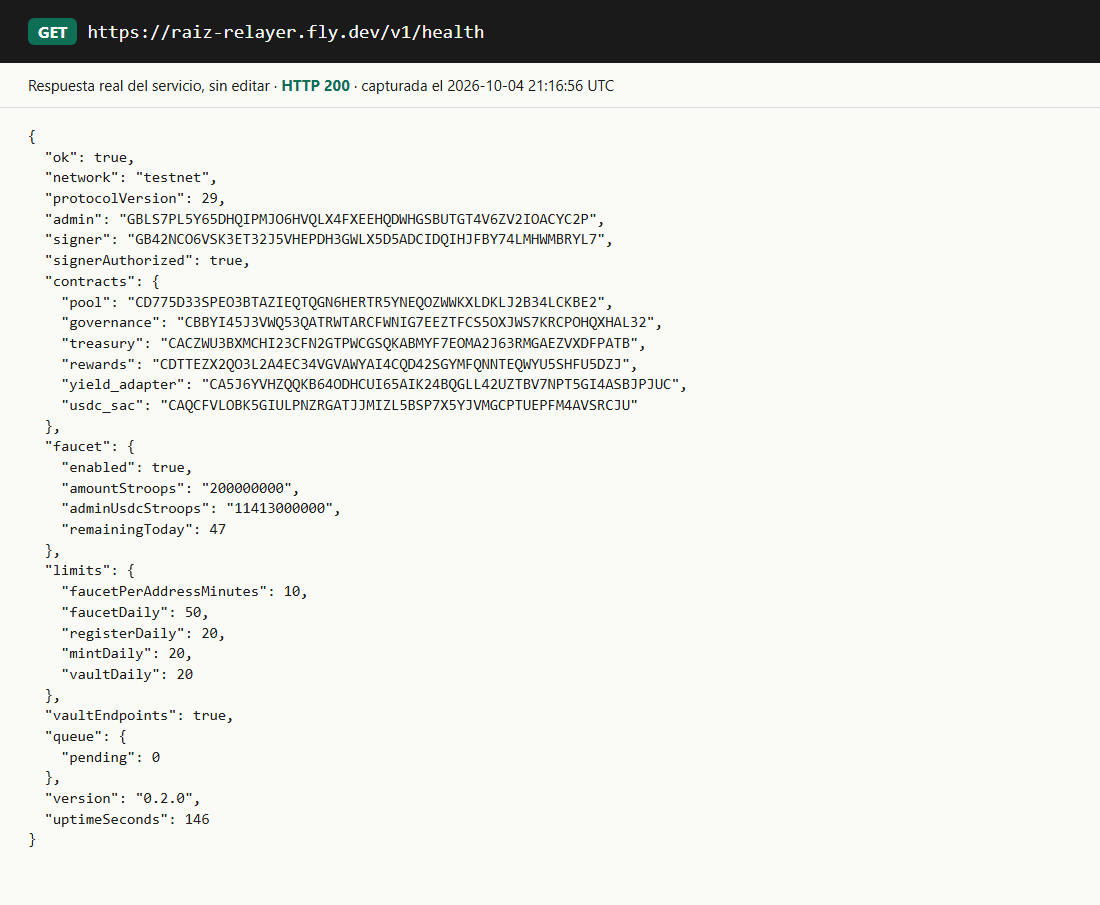
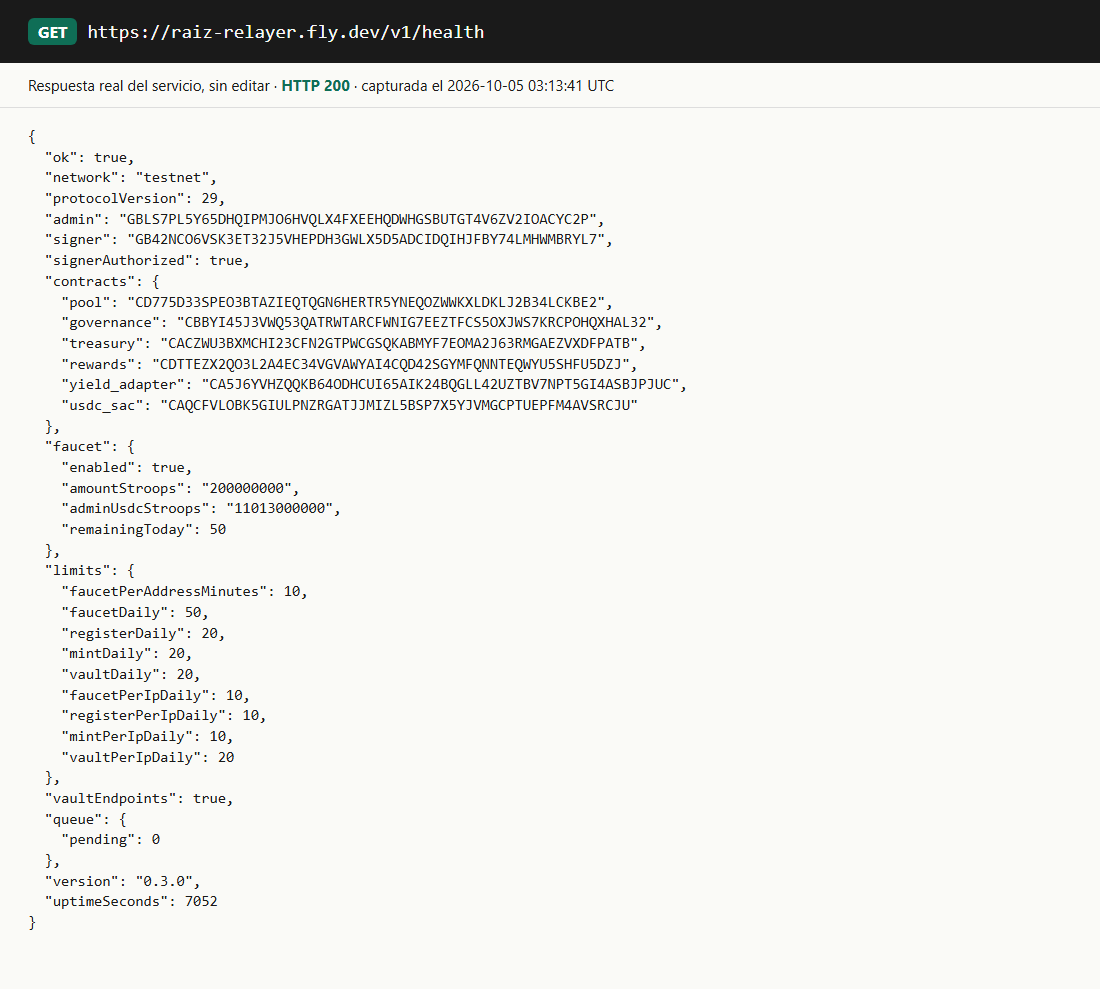
docs(sow): D1 — APK 0.4.0 sin ninguna credencial (relayer 0.3.0 público con cupos)
- `d1/verificacion_apk.md`: datos del APK 0.4.0 (SHA-256 296f30d8…802569d0); además de 0 claves
  privadas, no aparecen el valor de la API key del relayer, la cabecera `x-raiz-app-key` ni el campo
  `RELAYER_APP_KEY`.
- `d1/README.md`: la API key de aplicación (0.2.0–0.3.0) se eliminó; el relayer 0.3.0 es público y
  lo protegen cupos por IP, por dirección y globales. Captura del health con la versión 0.3.0 y tres
  capturas del APK release 0.4.0 completando un depósito real.
- `d1/regresion_dispositivo.md`: los dos casos de la API key vacía o incorrecta quedan como históricos.

Changed region(s): [[0.0309, 0.1547, 0.6182, 0.9282], [0.0, 0.0, 1.0, 0.1238], [0.2473, 0.6497, 0.2782, 0.6807]]

diff --git a/docs/evidencia_sow/d1/README.md b/docs/evidencia_sow/d1/README.md
@@ -6,21 +6,22 @@ descompilación; regresión en dispositivo físico.
 
 **En una frase:** antes, el APK llevaba la clave privada del admin del protocolo para poder
 registrar comercios, emitir el soulbound de residente y repartir USDC de prueba. Desde la versión
-0.2.0 el APK solo tiene direcciones públicas y una API key de aplicación: quien firma como admin es
-el servicio `raiz-relayer`, con una clave que vive únicamente en una variable de entorno del
-servidor. El 4-oct, además, la clave que había viajado en el APK viejo se **revocó on-chain** y el
-relayer pasó a firmar con una clave nueva, que nunca estuvo en un APK.
+0.2.0 el APK no lleva ninguna clave privada: quien firma como admin es el servicio `raiz-relayer`,
+con una clave que vive únicamente en una variable de entorno del servidor. El 4-oct, además, la
+clave que había viajado en el APK viejo se **revocó on-chain** y el relayer pasó a firmar con una
+clave nueva, que nunca estuvo en un APK. Y desde la **0.4.0** (también del 4-oct) el APK tampoco
+lleva la API key con la que se identificaba ante el relayer: solo contiene direcciones públicas.
 
 ## Tabla entregable → evidencia
 
 | Entregable SOW D1 | Evidencia | Dónde | Estado |
 |---|---|---|---|
-| Repositorio público del relayer | TypeScript + Fastify + `@stellar/stellar-sdk`, licencia MIT, README en español (endpoints, modelo de amenazas, runbook), 182 pruebas automáticas (`vitest`), integración real contra testnet y CI | https://github.com/JuanWimmin/raiz-relayer | ✅ Público desde el 27-ago |
-| Servicio corriendo en testnet | `GET /v1/health`: `ok`, `network: testnet`, los 5 contratos de `deployments.json`, cuenta admin y clave que firma | https://raiz-relayer.fly.dev/v1/health · captura [`d1_relayer_health_2026-10-04.png`](capturas/d1_relayer_health_2026-10-04.png) | ✅ Desplegado el 6-sep (Fly, región `iad`); versión 0.2.0 desde el 4-oct |
-| App migrada al relayer | `android/app/src/main/java/com/raiz/app/data/relayer/RelayerClient.kt` + 24 tests de mapeo de errores; ningún ViewModel firma como admin | Este repo, `main` (PR #1, 6-sep) | ✅ |
-| APK release sin secretos | [`raiz-0.3.0.apk`](https://github.com/JuanWimmin/Protocolo_Raiz/releases/download/v0.3.0/raiz-0.3.0.apk): versión final del sprint, con D1 + D2 + D3. SHA-256 `50373942…d771f56c` | [Release v0.3.0](https://github.com/JuanWimmin/Protocolo_Raiz/releases/tag/v0.3.0). La primera versión sin clave admin fue la [v0.2.0](https://github.com/JuanWimmin/Protocolo_Raiz/releases/tag/v0.2.0) (12-sep) | ✅ 4-oct |
+| Repositorio público del relayer | TypeScript + Fastify + `@stellar/stellar-sdk`, licencia MIT, README en español (endpoints, modelo de amenazas, runbook), 200 pruebas automáticas (`vitest`), integración real contra testnet y CI | https://github.com/JuanWimmin/raiz-relayer | ✅ Público desde el 27-ago |
+| Servicio corriendo en testnet | `GET /v1/health`: `ok`, `network: testnet`, los 5 contratos de `deployments.json`, cuenta admin y clave que firma | https://raiz-relayer.fly.dev/v1/health · captura [`d1_relayer_health_2026-10-04.png`](capturas/d1_relayer_health_2026-10-04.png) | ✅ Desplegado el 6-sep (Fly, región `iad`); versión 0.3.0 desde el 4-oct (pública, sin API key, con cupos por IP) |
+| App migrada al relayer | `android/app/src/main/java/com/raiz/app/data/relayer/RelayerClient.kt` + 27 tests de mapeo de errores; ningún ViewModel firma como admin | Este repo, `main` (PR #1, 6-sep) | ✅ |
+| APK release sin secretos | [`raiz-0.4.0.apk`](https://github.com/JuanWimmin/Protocolo_Raiz/releases/download/v0.4.0/raiz-0.4.0.apk): versión final del sprint, con D1 + D2 + D3 y sin ninguna credencial. SHA-256 `296f30d8…802569d0` | [Release v0.4.0](https://github.com/JuanWimmin/Protocolo_Raiz/releases/tag/v0.4.0). La anterior, [v0.3.0](https://github.com/JuanWimmin/Protocolo_Raiz/releases/tag/v0.3.0), aún llevaba la API key del relayer. La primera versión sin clave admin fue la [v0.2.0](https://github.com/JuanWimmin/Protocolo_Raiz/releases/tag/v0.2.0) (12-sep) | ✅ 4-oct |
 | Verificable por descompilación | Documento de 1 página + script reproducible + ejecución automática en GitHub | [`verificacion_apk.md`](verificacion_apk.md) · [`scripts/verify_apk_no_secrets.py`](../../../scripts/verify_apk_no_secrets.py) · [workflow `verify-apk`](https://github.com/JuanWimmin/Protocolo_Raiz/actions/workflows/verify-apk.yml) | ✅ 0 claves privadas |
-| Regresión en dispositivo físico | 4 flujos vía relayer en un Motorola G04 (faucet con passkey y con semilla, alta de comercio, residente + voto, yield), con capturas y hashes | [`regresion_dispositivo.md`](regresion_dispositivo.md) · [`capturas/`](capturas) | ✅ 6-sep (APK 0.2.0). El APK 0.3.0 pasó una prueba de humo el 4-oct: capturas `d1_v030_*` |
+| Regresión en dispositivo físico | 4 flujos vía relayer en un Motorola G04 (faucet con passkey y con semilla, alta de comercio, residente + voto, yield), con capturas y hashes | [`regresion_dispositivo.md`](regresion_dispositivo.md) · [`capturas/`](capturas) | ✅ 6-sep (APK 0.2.0). El APK 0.3.0 pasó una prueba de humo el 4-oct (capturas `d1_v030_*`) y el **APK 0.4.0 completó un depósito real** ese mismo día: capturas [`d1_v040_01`](capturas/d1_v040_01_inicio_release.png), [`02`](capturas/d1_v040_02_deposito_completo_release.png), [`03`](capturas/d1_v040_03_inicio_tras_deposito_release.png) |
 | La clave que viajó en el APK ya no sirve | Rotación on-chain: la clave maestra de la cuenta admin tiene peso 0 | [Sección de abajo](#rotación-de-la-clave-del-admin-2026-10-04) | ✅ 4-oct |
 
 ## Cómo lo verifica un revisor en 10 minutos
@@ -60,7 +61,7 @@ dirección como admin, de modo que no hubo que redesplegar nada ni tocar la app:
 | 3 | El relayer (versión 0.2.0) pasó a firmar con la clave nueva. `/v1/health` lo muestra: `signer: GB42NCO6…`, `signerAuthorized: true` | commit [`9620123`](https://github.com/JuanWimmin/raiz-relayer/commit/96201239576071b27f1221a9e719e9f8e76032cf) · faucet de prueba firmado con la clave nueva: [`b3092c56…7189`](https://stellar.expert/explorer/testnet/tx/b3092c56bd9db1b0417b4b3d0a51b1d311d3b4887b32f5e193b92f8fc8197189) (pago clásico) y [`04d0a525…7ad4`](https://stellar.expert/explorer/testnet/tx/04d0a5253118f9d2abe886a76392d2c1d7ab85d5ec829a9ee8b4c8d7b75f7ad4) (contrato) |
 | 4 | Con una transacción firmada por la clave **nueva**, la clave maestra quedó con peso 0 y los umbrales en 1/1/1 | tx [`1c56d1ca…35d7`](https://stellar.expert/explorer/testnet/tx/1c56d1ca0c10caaedfeeeccdbca49ce4587500fe76727e868b4c06b4a6b235d7) |
 | 5 | Comprobación: una transacción firmada con la clave vieja es rechazada por la red | `tx_bad_auth` (salida abajo) |
-| 6 | El APK 0.1.0 se retiró de su Release y la landing enlaza al 0.3.0 | [Release v0.1.0](https://github.com/JuanWimmin/Protocolo_Raiz/releases/tag/v0.1.0) (sin archivo) · <https://raizapp.xyz> |
+| 6 | El APK 0.1.0 se retiró de su Release y la landing enlaza al APK vigente (0.4.0) | [Release v0.1.0](https://github.com/JuanWimmin/Protocolo_Raiz/releases/tag/v0.1.0) (sin archivo) · <https://raizapp.xyz> |
 | 7 | La suite de integración del relayer (11 pruebas reales contra testnet) pasa con la clave nueva: faucet, residente, comercio y los rechazos esperados | [`it-testnet-2026-10-04.json`](https://github.com/JuanWimmin/raiz-relayer/blob/main/docs/evidencia/it-testnet-2026-10-04.json) · `mint_resident` [`f5842447…bd8d`](https://stellar.expert/explorer/testnet/tx/f584244713df7d6ec28d59f2cf11be143514db58f3b580334fbecd1039d4bd8d) · `register_merchant` [`684ba48f…7fec`](https://stellar.expert/explorer/testnet/tx/684ba48f31aea7e59b0907969a032652ad4e213776cfe8d6d3892346c6837fec) |
 
 El paso 4 lo firma la clave nueva a propósito: si esa clave no pudiera firmar por la cuenta, la
@@ -90,9 +91,15 @@ y la app: ninguno depende de qué clave firma, solo de la cuenta.
 
 - **La dirección pública del admin sí está en el APK** (`assets/deployments.json`). Es pública y
   necesaria como cuenta de origen de las lecturas por simulación; con ella no se firma nada.
-- **La API key de la app viaja en el APK** a propósito: limita peticiones por aplicación, no es
-  autenticación fuerte. El relayer lo documenta como modelo de amenazas de **testnet**; la custodia
-  comunal real es la fase F3 del roadmap.
+- **El relayer es público: no hay API key.** De 0.2.0 a 0.3.0 la app enviaba una API key de
+  aplicación que viajaba en el APK; no firmaba nada, pero cualquiera podía extraerla, así que no
+  protegía de verdad. Desde el 4-oct (app 0.4.0 + relayer 0.3.0) no existe: cualquiera puede llamar
+  al relayer y lo que acota el abuso son cupos del lado del servidor (por IP y minuto, por IP y día,
+  por dirección destino y un tope global diario), además de que cada operación solo se firma si las
+  reglas de los contratos lo permiten. El relayer lo documenta como modelo de amenazas de
+  **testnet**. Lo que viene después — que cada petición vaya autenticada por la wallet del usuario
+  (SEP-10 y SEP-45) — está planificado en detalle como WP7 de
+  [`PLAN_CLAUDE_CODE_SOW.md`](../../PLAN_CLAUDE_CODE_SOW.md); la custodia comunal real es la fase F3.
 - **Wallets demo.** Las claves de las wallets demo (turista y residente) existen solo en el build
   *debug* de desarrollo; el build *release* las deja vacías. Son las otras dos claves que llevaba el
   APK 0.1.0: son cuentas de prueba sin autoridad sobre el protocolo y siguen activas porque la demo
@@ -122,6 +129,11 @@ y la app: ninguno depende de qué clave firma, solo de la cuenta.
 
 Lo que el usuario sigue firmando con su propia wallet: pagar a un comercio, votar, crear
 propuestas, canjear premios, ejecutar propuestas aprobadas (trustless), friendbot y trustlines.
+
+**Desde 0.4.0 (4-oct):** se eliminaron `BuildConfig.RELAYER_APP_KEY` y la cabecera
+`x-raiz-app-key`; `RelayerClient` solo necesita la URL del relayer, y un `401` del servidor se
+muestra como "El relayer no autorizó la petición". Además, el faucet dejó de ser un camino normal
+de la app: el USDC se consigue depositando con el anchor (D3) y el faucet queda como contingencia.
 
 Bitácora completa de la primera verificación del APK (0.2.0, 6-sep):
 [`verificacion_apk_0.2.0_bitacora.md`](verificacion_apk_0.2.0_bitacora.md).

diff --git a/docs/evidencia_sow/d1/verificacion_apk.md b/docs/evidencia_sow/d1/verificacion_apk.md
@@ -1,8 +1,9 @@
 # D1 — Cómo verificar que el APK no lleva claves privadas (1 página)
 
-**Qué demuestra:** el APK de RAÍZ no contiene ninguna clave privada de Stellar. La autoridad del
-admin (alta de comercios, soulbound de residente, faucet y vault) vive en el servicio
-[`raiz-relayer`](https://github.com/JuanWimmin/raiz-relayer); la app solo le habla por HTTPS.
+**Qué demuestra:** el APK de RAÍZ no contiene ninguna clave privada de Stellar ni ninguna otra
+credencial. La autoridad del admin (alta de comercios, soulbound de residente, faucet y vault) vive
+en el servicio [`raiz-relayer`](https://github.com/JuanWimmin/raiz-relayer); la app solo le habla
+por HTTPS, sin API key.
 
 **Si no eres técnico:** una clave privada de Stellar es un texto de 56 caracteres que empieza por
 `S`. Una dirección pública empieza por `G` (cuenta) o `C` (contrato) y no es secreta: cualquiera la
@@ -11,8 +12,8 @@ El resultado esperado es **0**.
 
 | Dato | Valor |
 |---|---|
-| APK verificado | [`raiz-0.3.0.apk`](https://github.com/JuanWimmin/Protocolo_Raiz/releases/download/v0.3.0/raiz-0.3.0.apk), del [Release v0.3.0](https://github.com/JuanWimmin/Protocolo_Raiz/releases/tag/v0.3.0) — versión 0.3.0 (`versionCode 3`), con D1 + D2 + D3 |
[1 lines of base64/hex data omitted]
+| APK verificado | [`raiz-0.4.0.apk`](https://github.com/JuanWimmin/Protocolo_Raiz/releases/download/v0.4.0/raiz-0.4.0.apk), del [Release v0.4.0](https://github.com/JuanWimmin/Protocolo_Raiz/releases/tag/v0.4.0) — versión 0.4.0 (`versionCode 4`), con D1 + D2 + D3 |
[1 lines of base64/hex data omitted]
 | Firma | Clave de depuración de Android (APK Signature Scheme v2, `CN=Android Debug`). No es una clave de Stellar |
 | Fecha | 2026-10-04 |
 
@@ -22,20 +23,21 @@ Abre **[las ejecuciones del workflow `verify-apk`](https://github.com/JuanWimmin
 y entra en la más reciente. GitHub descarga el APK del Release, lo abre y busca claves. La ejecución
 debe estar en verde y su recuadro *Annotations* debe decir **"claves privadas válidas: 0"**, junto
 al SHA-256 del APK. Si el verificador encontrara una sola clave, la ejecución saldría en rojo. Con
-sesión de GitHub iniciada se ven además la tabla completa y los logs. Captura de la ejecución del 4-oct,
-tal como la ve alguien sin sesión: [`d1_verify_apk_workflow_2026-10-04.png`](capturas/d1_verify_apk_workflow_2026-10-04.png).
+sesión de GitHub iniciada se ven además la tabla completa y los logs. Captura de una ejecución del
+4-oct (sobre el APK 0.3.0), tal como la ve alguien sin sesión:
+[`d1_verify_apk_workflow_2026-10-04.png`](capturas/d1_verify_apk_workflow_2026-10-04.png).
 
 ## Opción B — en tu equipo (un comando desde una copia del repo; solo necesita Python 3)
 
 ```bash
-python scripts/verify_apk_no_secrets.py https://github.com/JuanWimmin/Protocolo_Raiz/releases/download/v0.3.0/raiz-0.3.0.apk
+python scripts/verify_apk_no_secrets.py https://github.com/JuanWimmin/Protocolo_Raiz/releases/download/v0.4.0/raiz-0.4.0.apk
 ```
 
 Salida del 2026-10-04:
 
 ```
-SHA-256:   5037394234615e31935c13249569b12abd22769a0be2f1367488a013d771f56c
-Tamaño:    97936229 bytes · 740 archivos examinados
+SHA-256:   296f30d862a78187230a93d26fdc291a25faeb1cea8bd134b2d669dd802569d0
+Tamaño:    98001833 bytes · 740 archivos examinados
 Cadenas con FORMA de clave (S + 55 de [A-Z0-9]): 32
        8  lib/arm64-v8a/libmapbox-common.so   (y 8 en cada una de las otras 3 arquitecturas)
 Claves privadas de Stellar VÁLIDAS (versión + checksum correctos): 0
@@ -45,7 +47,7 @@ RESULTADO: OK — cero claves privadas
 ## Opción C — a mano, con `unzip` y `grep` (lo mismo que hace el script)
 
 ```bash
-unzip -q raiz-0.3.0.apk -d apk
+unzip -q raiz-0.4.0.apk -d apk
 grep -raEo "S[A-Z0-9]{55}" apk/classes*.dex apk/assets apk/res | sort -u | wc -l   # → 0
 grep -raEo "S[A-Z0-9]{55}" apk | cut -d: -f1 | sort | uniq -c                       # → 4 líneas de 8 (32), todas libmapbox-common.so
 ```
@@ -70,11 +72,17 @@ lleva un byte de versión y un checksum, y el script comprueba ambos (por eso di
 - **La dirección pública del admin** (`GBLS7PL5…YC2P`), solo en `assets/deployments.json`. La app
   la usa como cuenta de origen al *leer* de los contratos por simulación; con ella no se firma nada.
 - **Direcciones de contratos (`C…`) y el emisor del USDC**: públicas por definición.
-- **La API key de aplicación del relayer**: identifica a la app para el límite de peticiones. Viaja
-  en el APK a propósito; no da acceso a fondos (modelo de amenazas de testnet en el README del relayer).
+- **La URL del relayer** (`https://raiz-relayer.fly.dev`), que es pública. **Ya no hay API key**:
+  hasta la versión 0.3.0 el APK llevaba una API key de aplicación para identificarse ante el
+  relayer; la 0.4.0 la eliminó (el relayer es público y se protege con cupos del lado del servidor).
+  En el APK 0.4.0 no aparecen ni su valor, ni el nombre de la cabecera (`x-raiz-app-key`), ni el
+  campo `RELAYER_APP_KEY`.
 - **El token público de Mapbox** (`pk.*`), pensado para ir en aplicaciones cliente.
 - Las wallets demo (turista y residente) existen solo en el build *debug* de desarrollo. El build
   *release* las deja vacías en `android/app/build.gradle.kts`, compile quien compile.
+- **Ninguna clave para depositar.** Cuando una wallet passkey deposita con el anchor (D3), la app
+  genera en el teléfono una cuenta de tránsito y guarda su frase cifrada en el almacenamiento
+  privado de la app. Esa clave nace en el dispositivo de cada usuario: no viene en el APK.
 
 ## Resultado
 
@@ -84,6 +92,7 @@ lleva un byte de versión y un checksum, y el script comprueba ambos (por eso di
 | Claves privadas válidas en todo el APK | 0 | **0** (32 cadenas con esa forma en `libmapbox-common.so`, ninguna pasa el checksum) |
 | Claves demo del equipo (turista, residente) dentro del APK | ausentes | **ausentes** (se buscó cada una, de 56 caracteres) |
 | Nombres de la configuración vieja (`DEMO_ADMIN`, `raiz.admin.secret`) | 0 | **0** |
+| API key del relayer: su valor, la cabecera `x-raiz-app-key` y el campo `RELAYER_APP_KEY` | ausentes | **ausentes** |
 | Claves privadas en el historial de git (todas las ramas, repo de la app y del relayer) | 0 | **0** |
 
 Bitácora completa de la primera verificación (APK 0.2.0, 6 de septiembre), con cada comando y su

diff --git a/docs/evidencia_sow/d1/regresion_dispositivo.md b/docs/evidencia_sow/d1/regresion_dispositivo.md
@@ -112,8 +112,8 @@ monto reutiliza la `idempotency-key` → no se mueve el fondo dos veces. Captúr
 | # | Situación | Esperado | Captura |
 |---|---|---|---|
 | 1 | Modo avión y entrar a Inicio / Propuestas / Tesorería | Inicio y Propuestas: los botones siguen habilitados (la key está configurada) y al pulsar muestran en rojo "No se pudo contactar con el relayer". Tesorería: "Comprobando el relayer…" y, cuando `health()` agota su timeout (10 s), "Tesorería en modo lectura (relayer no disponible: No se pudo contactar con el relayer)." con los botones deshabilitados. Las lecturas on-chain muestran su propio estado sin red. Sin crash | `d1_sinrelayer_01.png` |
-| 2 | APK compilado con `raiz.relayer.key` **vacía** | Botón deshabilitado + aviso rojo "Relayer no configurado (raiz.relayer.url / raiz.relayer.key en local.properties)" en Inicio (paso 3), Propuestas y Tesorería; **no sale ninguna petición** al relayer | `d1_sinrelayer_02.png` |
-| 3 | APK compilado con `raiz.relayer.key` **incorrecta** | Cualquier acción admin → `401 UNAUTHORIZED_APP` → texto rojo "La app no está autorizada en el relayer"; reintentable tras corregir la key (recompilar) | `d1_sinrelayer_03.png` |
+| 2 | (Histórico: APK 0.2.0–0.3.0; desde la 0.4.0 la app no lleva API key y este caso ya no existe) APK compilado con `raiz.relayer.key` **vacía** | Botón deshabilitado + aviso rojo "Relayer no configurado (raiz.relayer.url / raiz.relayer.key en local.properties)" en Inicio (paso 3), Propuestas y Tesorería; **no sale ninguna petición** al relayer | `d1_sinrelayer_02.png` |
+| 3 | (Histórico, igual que el anterior: el relayer 0.3.0 ya no devuelve `UNAUTHORIZED_APP`) APK compilado con `raiz.relayer.key` **incorrecta** | Cualquier acción admin → `401 UNAUTHORIZED_APP` → texto rojo "La app no está autorizada en el relayer"; reintentable tras corregir la key (recompilar) | `d1_sinrelayer_03.png` |
 
 ## 6. Lo que NO debe haber cambiado
 
